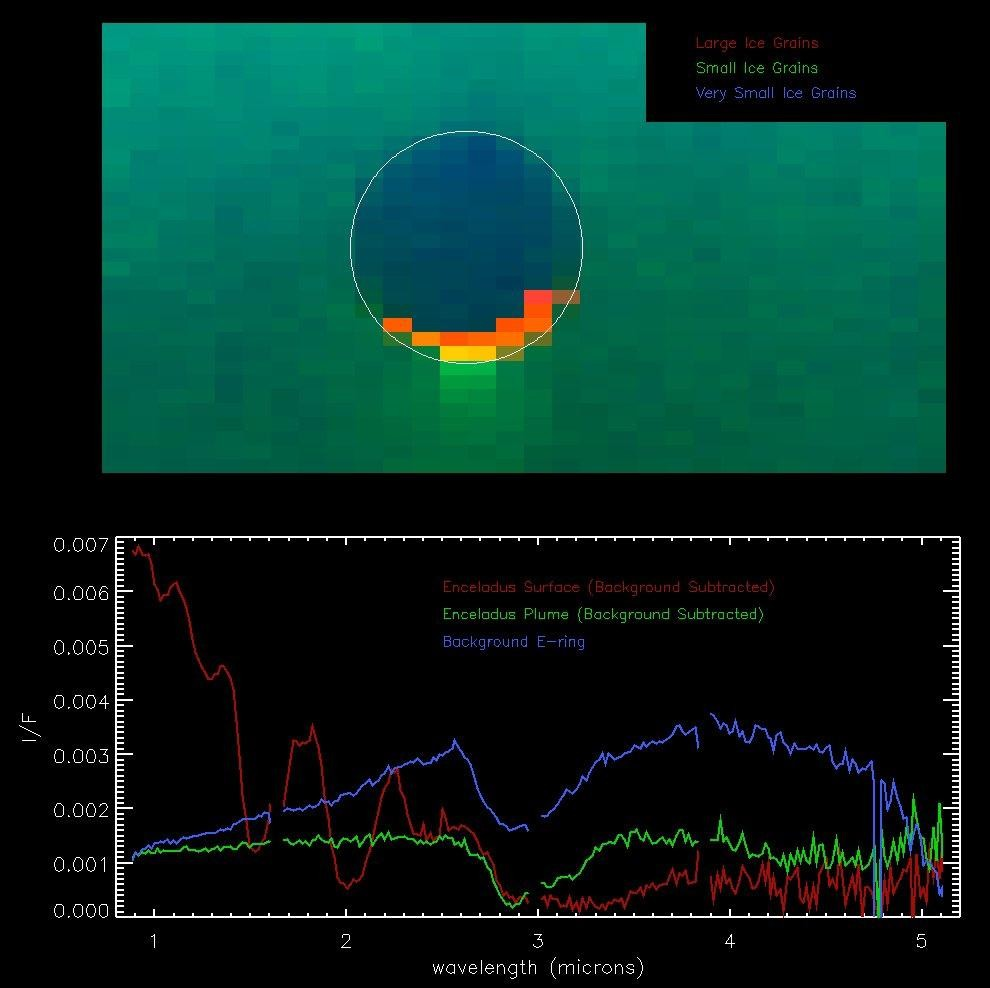
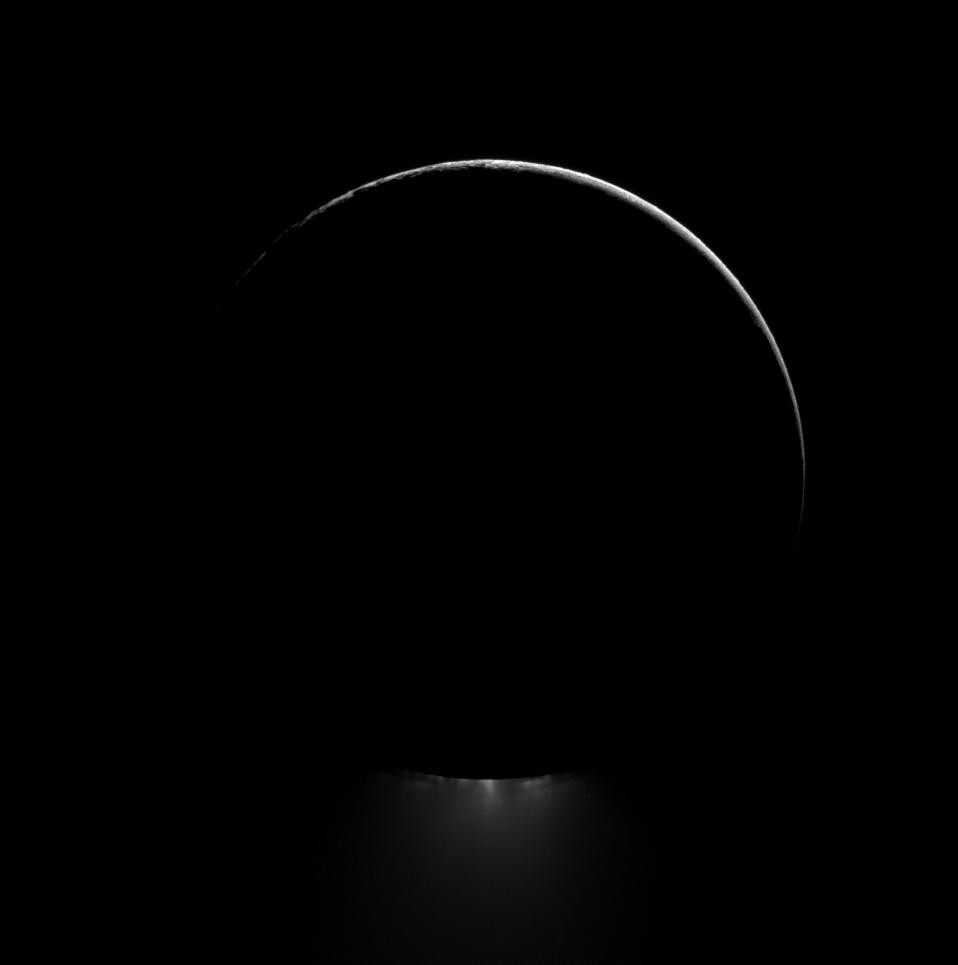
Corrige fotografia e credito de Encelado

diff --git a/src/SolarGuide.tsx b/src/SolarGuide.tsx
@@ -43,12 +43,12 @@ const rocks = [
 
 export type SolarGuideTab = 'luas' | 'corpos' | 'regioes' | 'missoes';
 type GalleryItem = {name: string; image: string; alt: string; description: string; credit: string; tag?: string; measurement?: string; caption?: string};
-// Imagens NASA: Galileo; Cassini PIA06443; Europa Clipper PIA26068.
+// Imagens NASA: Galileo; Cassini PIA14599; Europa Clipper PIA26068.
 const moons: GalleryItem[] = [
   {name: 'Lua', tag: 'Terra', image: 'satellites/moon-apollo11.jpg', alt: 'Disco inteiro da Lua fotografado pela tripulação da Apollo 11.', description: 'Rochas, crateras e registros da história do Sistema Solar. É o único satélite natural da Terra.', measurement: 'Diâmetro · 3.475 km', credit: 'NASA · fotografia da Apollo 11'},
   {name: 'Europa', tag: 'Júpiter', image: 'solar-guide/europa.jpg', alt: 'Superfície gelada de Europa, marcada por fraturas.', description: 'Uma crosta de gelo cobre um oceano que pode reunir condições favoráveis à vida. A missão Europa Clipper investigará esse ambiente.', measurement: 'Diâmetro · 3.122 km', credit: 'NASA/JPL-Caltech/SETI Institute · Galileo'},
   {name: 'Titã', tag: 'Saturno', image: 'solar-guide/titan.jpg', alt: 'Titã envolta por sua atmosfera, com Saturno ao fundo.', description: 'Atmosfera espessa e lagos de metano e etano na superfície. A sonda Huygens pousou ali em 2005.', measurement: 'Diâmetro · 5.150 km', credit: 'NASA/JPL-Caltech/Space Science Institute'},
-  {name: 'Encélado', tag: 'Saturno', image: 'solar-guide/enceladus.jpg', alt: 'Pluma de material ejetado da região sul de Encélado.', description: 'Jatos lançam água e partículas de gelo de uma região próxima ao polo sul, fornecendo pistas sobre seu oceano interno.', measurement: 'Diâmetro · 504 km', credit: 'NASA/JPL/University of Arizona · Cassini'},
+  {name: 'Encélado', tag: 'Saturno', image: 'solar-guide/enceladus.jpg', alt: 'Pluma de material ejetado da região sul de Encélado.', description: 'Jatos lançam água e partículas de gelo de uma região próxima ao polo sul, fornecendo pistas sobre seu oceano interno.', measurement: 'Diâmetro · 504 km', credit: 'NASA/JPL-Caltech/Space Science Institute · Cassini'},
 ];
 const missions: GalleryItem[] = [
   {name: 'Europa Clipper', tag: 'Um mundo oceânico', image: 'solar-guide/europa-clipper.jpg', alt: 'Conceito artístico da sonda Europa Clipper em órbita de Júpiter.', description: 'Lançada em 14 de outubro de 2024, foi projetada para investigar Europa e avaliar se a lua reúne condições de habitabilidade.', credit: 'Conceito artístico · NASA/JPL-Caltech'},
